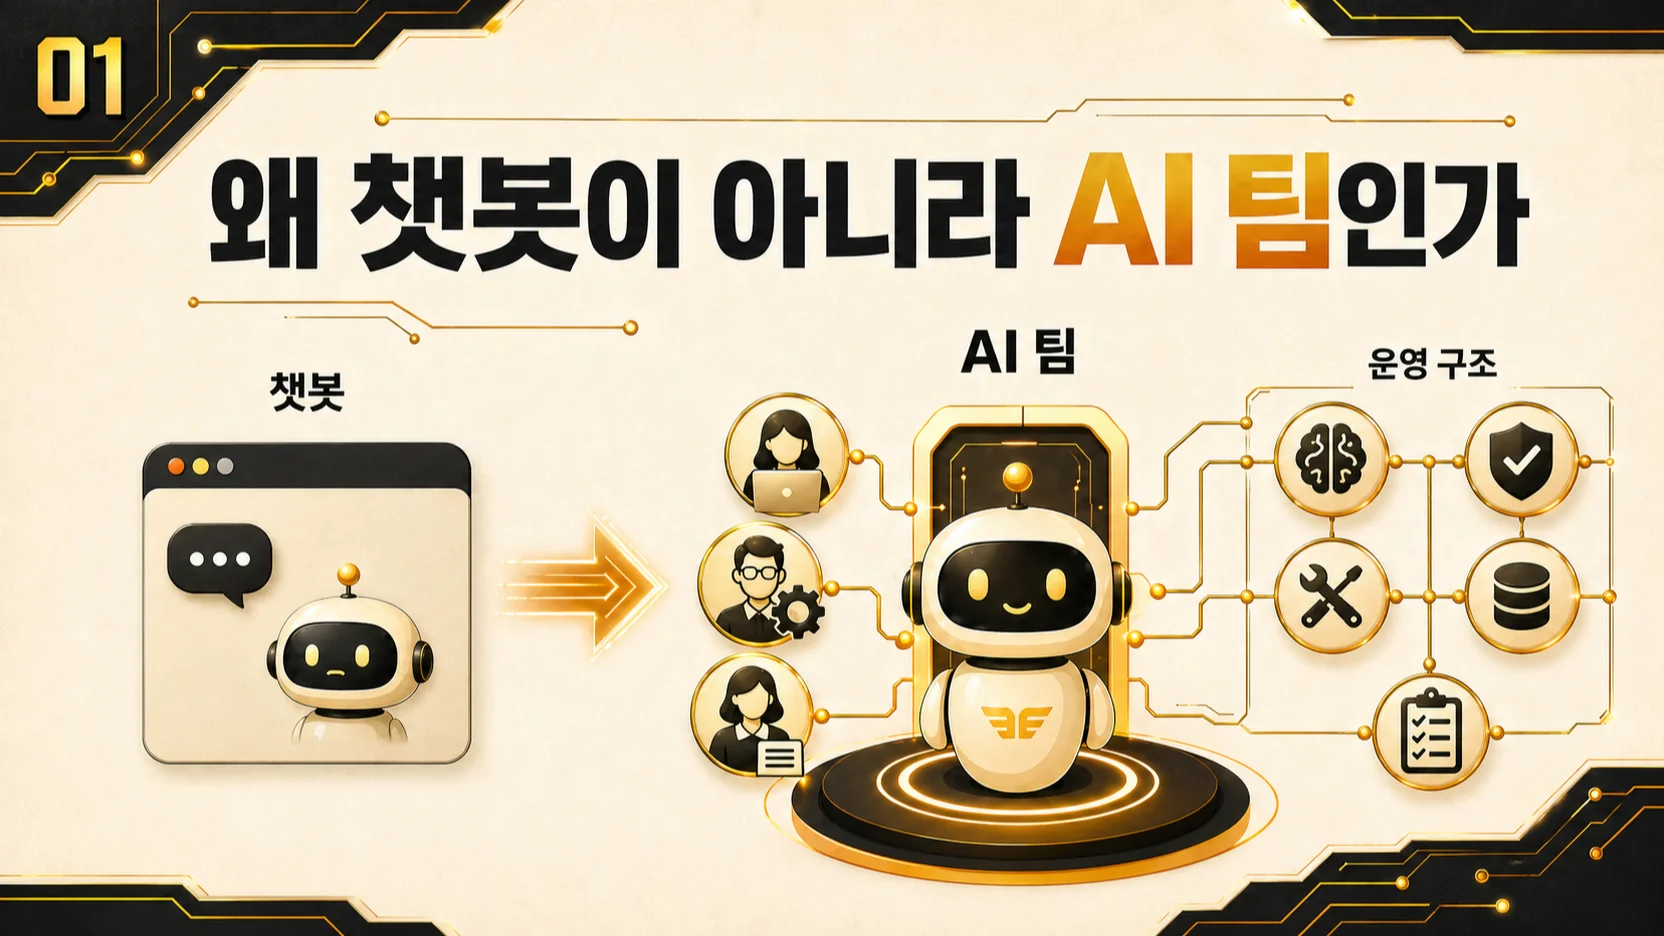
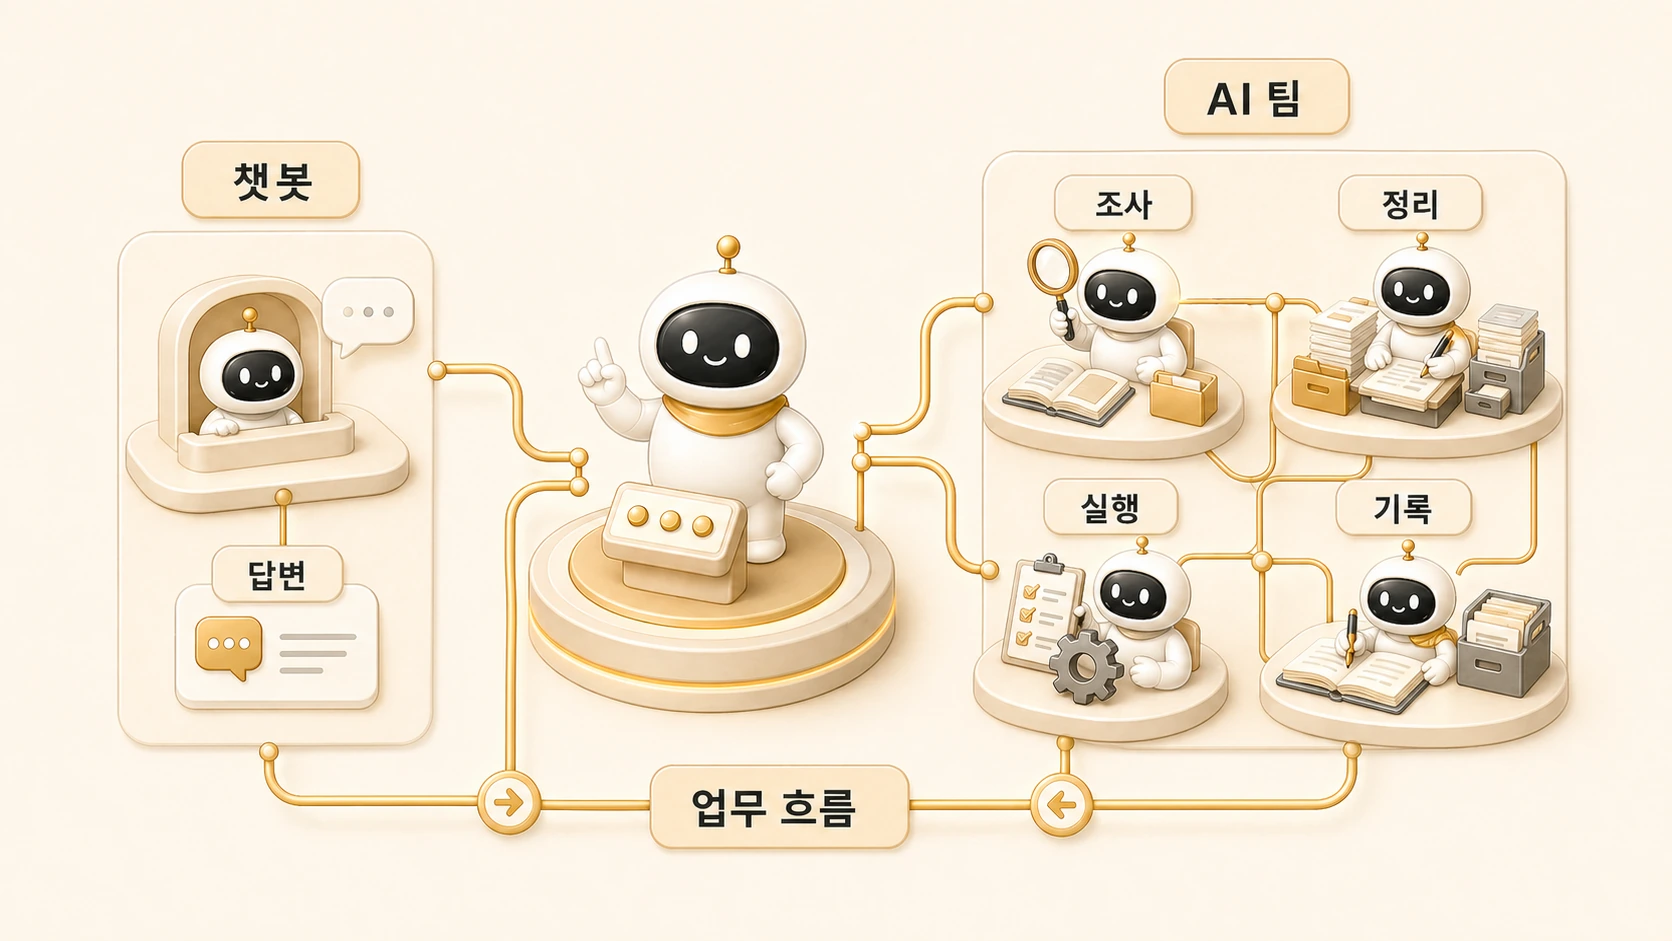
chore: refresh chapter 1 and 2 hero images

diff --git a/pages/18-when-harvey-should-handle-directly-vs-delegate.md b/pages/18-when-harvey-should-handle-directly-vs-delegate.md
@@ -2,7 +2,7 @@
 
 AI 개인비서가 잘 굴러가려면 직접 처리할 일과 [역할형 에이전트](https://wikidocs.net/345925)에 맡길 일을 구분해야 한다. 메인 창구가 모든 일을 직접 하면 병목이 되고, 반대로 모든 일을 위임하면 사용자는 조각난 결과만 받는다.
 
-![직접 처리와 역할형 에이전트 위임 기준](../assets/how-image-agent-creates-wikidocs-visuals/ch2-2-direct-vs-delegate-codex.png)
+![직접 처리와 역할형 에이전트 위임 기준](../assets/how-image-agent-creates-wikidocs-visuals/ch2-2-direct-vs-delegate-codex.webp)
 
 핵심 기준은 “누가 더 똑똑한가”가 아니라 일의 성격이다. 짧은 판단, 우선순위, 최종 통합은 메인 창구가 직접 처리하는 편이 좋다. 반면 근거 수집, 긴 문서 정리, 파일 수정, 이미지 제작, 반복 검증처럼 깊이가 필요한 일은 방울이/뽀동이/봉구/[하망이](https://wikidocs.net/345989) 같은 역할형 에이전트에게 맡기는 편이 안정적이다.
 

diff --git a/pages/02-why-harvey-is-the-front-door.md b/pages/02-why-harvey-is-the-front-door.md
@@ -2,7 +2,7 @@
 
 [AI 개인비서](https://wikidocs.net/345923)에 메인 창구가 필요한 이유는 단순하다. 사용자가 여러 에이전트를 직접 고르고 지시해야 하면 AI 팀은 편해지는 것이 아니라 더 피곤해진다.
 
-![AI 개인비서 메인 창구가 사용자 부담을 줄이는 흐름](../assets/how-image-agent-creates-wikidocs-visuals/ch2-1-ai-assistant-front-door-codex.png)
+![AI 개인비서 메인 창구가 사용자 부담을 줄이는 흐름](../assets/how-image-agent-creates-wikidocs-visuals/ch2-1-ai-assistant-front-door-codex.webp)
 
 [Hermes Agent](https://wikidocs.net/346055)를 업무에 붙이면 요청은 대부분 짧게 들어온다. “이 스레드 전체 리뷰해줘”, “WikiDocs 2장도 봐줘”, “공식 설명과 어긋난 부분 없는지 확인해줘”처럼 시작한다. 그런데 그 안에는 이전 맥락 확인, 자료 대조, 문서 리라이트, 링크 검증, 발행 후 확인까지 함께 들어 있다.
 

diff --git a/pages/22-why-harvey-main-window-is-powerful-and-where-it-bottlenecks.md b/pages/22-why-harvey-main-window-is-powerful-and-where-it-bottlenecks.md
@@ -2,7 +2,7 @@
 
 [AI 개인비서 메인 창구](https://wikidocs.net/345892) 구조는 강력하다. 사용자는 하비 같은 메인 창구에 먼저 말하면 되고, 메인 창구가 내부에서 방울이, 뽀동이, 봉구, 하망이 같은 역할형 에이전트로 일을 나눌 수 있기 때문이다.
 
-![메인 창구의 강점과 병목을 기준으로 풀어내는 흐름](../assets/how-image-agent-creates-wikidocs-visuals/ch2-3-front-door-strength-bottleneck-codex.png)
+![메인 창구의 강점과 병목을 기준으로 풀어내는 흐름](../assets/how-image-agent-creates-wikidocs-visuals/ch2-3-front-door-strength-bottleneck-codex.webp)
 
 하지만 같은 이유로 병목도 생긴다. 모든 요청이 메인 창구로 들어오는데 직접 처리 기준, 위임 기준, 보고 기준이 없으면 편한 입구가 아니라 막히는 입구가 된다.
 
